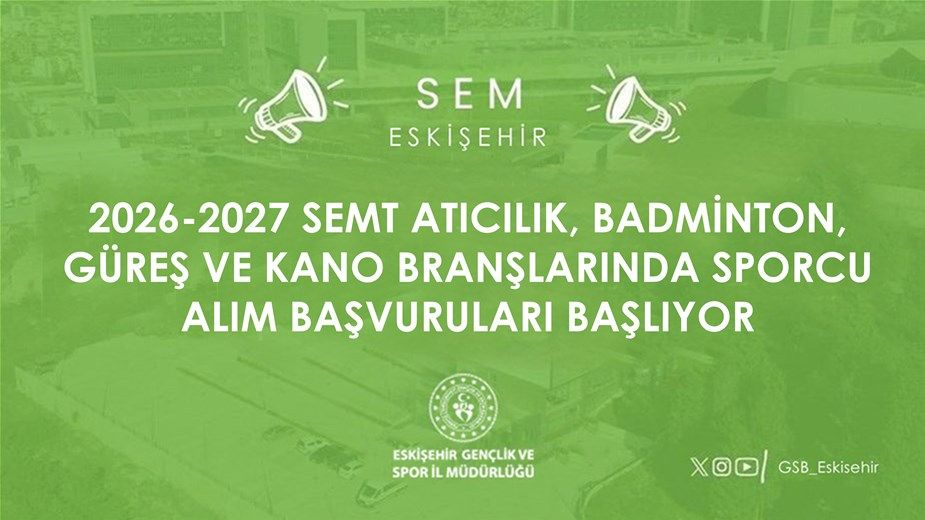
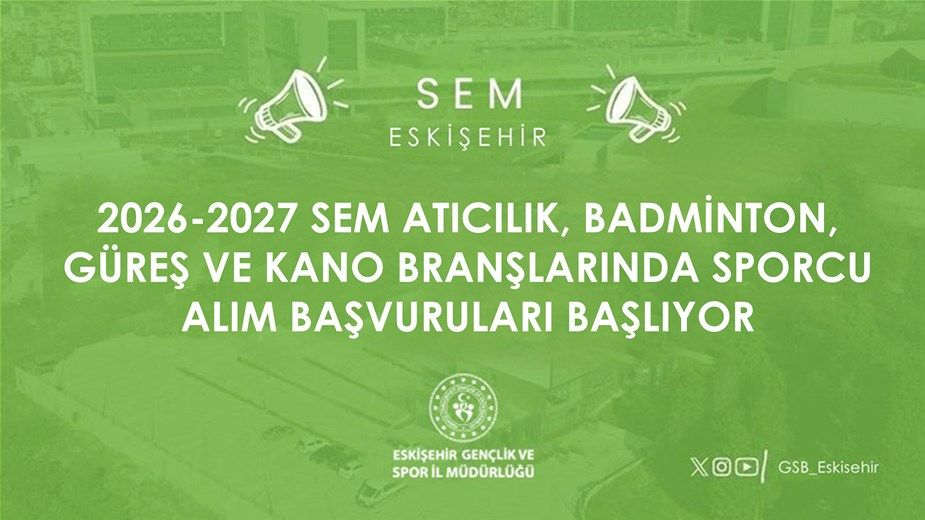
Haber turu (Pi masası)

Changed region(s): [[0.0908, 0.3692, 0.9384, 0.4615]]

diff --git a/SON_HABERLER.md b/SON_HABERLER.md
@@ -2,6 +2,70 @@
 
 Ajanın yazdığı son haberler (otomatik güncellenir).
 
+## Evlenecek Gençlere Kasımda 1,2 Milyar Liralık Destek: 11 Bin Çift Yararlandı
+
+**Türkiye · Türkiye** · 2026-11-21 13:09 UTC · Kaynak: [Aile ve Sosyal Hizmetler Bakanlığı](https://www.aile.gov.tr/haberler/aile-ve-genclik-fonu-kapsaminda-yeni-yuva-kuran-11-bin-224-genc-icin-kasim-ayinda-1-milyar-277-milyon-lira-odeme-yapildi/)
+
+![](data/images/7c625f4efbb33ff7.jpg)
+
+> Aile ve Sosyal Hizmetler Bakanlığı, Aile ve Gençlik Fonu kapsamında kasım ayında 11 bin 224 gence toplam 1 milyar 277 milyon lira faizsiz kredi ödendiğini bildirdi.
+
+Aile ve Sosyal Hizmetler Bakanı Mahinur Özdemir Göktaş, aile kurumunu desteklemek ve genç çiftlerin yuva kurma süreçlerini kolaylaştırmak amacıyla yürütülen Aile ve Gençlik Fonu ödemelerine ilişkin bilgi verdi. Göktaş, Türkiye genelinde 81 ili kapsayan uygulama doğrultusunda kasım ayında 11 bin 224 gence 1 milyar 277 milyon lira tutarında finansman aktarıldığını belirtti.
+
+Fondan yararlanma şartlarına değinen Bakan Göktaş, her iki eşin de 18-25 yaş aralığında yer alması durumunda 250 bin lira, 26-29 yaş grubunda bulunmaları halinde ise 200 bin liralık kredi verildiğini hatırlattı. Başvurusu kabul edilen çiftlere söz konusu desteğin 2 yıl geri ödemesiz ve 48 ay vadeli olarak sunulduğu, başvuru için aranan azami gelir sınırının da asgari ücretin 2,5 katına çıkarıldığı kaydedildi.
+
+Program kapsamında çocuk sahibi olan çiftlere hibe ve taksit erteleme imkânı tanındığını vurgulayan Göktaş, ilk bebekle birlikte 12 aylık taksitin hibe edilip borcun ertelendiğini, ikinci çocukta ise kalan tüm borcun silindiğini aktardı. Bugüne kadar fon aracılığıyla toplam 249 bin 686 gence 24 milyar 83 milyon liralık sıfır faizli kredi ulaştırıldığı bildirildi.
+
+---
+
+## Eskişehir Demirspor Son Dakikalarda Yıkıldı: Sahasında 1 Puana Razı Oldu
+
+**Spor · Merkez** · 2026-11-21 13:09 UTC · Kaynak: [Google Haberler - Eskişehir](https://www.abamedya.com/arit-kayadibi-eskisehir-deplasmanindan-puan-cikardi/66966/)
+
+> Profesyonelliğe Geçiş Ligi'nde mücadele eden Eskişehir Demirspor, sahasında ağırladığı Arıt Kayadibispor ile 1-1 berabere kaldı.
+
+Profesyonelliğe Geçiş Ligi'nin (PGL) 7. haftasında Eskişehir Demirspor, evinde Bartın temsilcisi Arıt Kayadibispor'u konuk etti. Çekişmeli geçen mücadele karşılıklı atılan gollerle 1-1'lik eşitlikle tamamlandı.
+
+Karşılaşmaya hızlı başlayan ev sahibi Eskişehir Demirspor, 23. dakikada Miren Örenç'in kaydettiği golle 1-0 öne geçti. İlk yarıda üstünlüğünü koruyan Eskişehir ekibi, soyunma odasına önde girdi.
+
+Mücadelenin ikinci yarısında konuk ekip beraberlik için yüklenirken, maçın son anlarında tansiyon yükseldi. Eskişehir Demirspor'da 86. dakikada Özkan Can ikinci sarı kartın ardından kırmızı kart görerek takımını 10 kişi bıraktı. Pozisyonun ardından kazanılan penaltıyı Arıt Kayadibispor adına Yusuf Oyit gole çevirdi ve skora denge geldi.
+
+Kalan dakikalarda başka gol olmayınca taraflar sahadan birer puanla ayrıldı.
+
+---
+
+## Cumhurbaşkanı Erdoğan Yeni Adalet Sarayını Açtı: 1,8 Milyon Kişiye Hizmet Verecek
+
+**Siyaset · Türkiye** · 2026-11-21 13:09 UTC · Kaynak: [İletişim Başkanlığı](https://www.iletisim.gov.tr/turkce/haberler/detay/cumhurbaskani-erdogan-gaziosmanpasa-adalet-sarayi-acilis-toreninde-konustu)
+
+![](data/images/229593dffb8a6cf0.jpg)
+
+> Cumhurbaşkanı Recep Tayyip Erdoğan, Gaziosmanpaşa Adalet Sarayı'nın resmî açılış töreninde konuşarak 29 katlı yeni binanın 4 ilçeye hizmet sunacağını belirtti.
+
+Cumhurbaşkanı Recep Tayyip Erdoğan, Eyüpsultan sınırları içinde inşa edilen Gaziosmanpaşa Adalet Sarayı'nın resmî açılış töreninde açıklamalarda bulundu. Daha önce üç ayrı binada faaliyet gösteren birimlerin tek çatı altında toplandığını aktaran Erdoğan, modern altyapıyla adalet hizmetlerinin daha hızlı ve etkin yürütülmesinin amaçlandığını söyledi.
+
+Yeni adliye kompleksinin yaklaşık 90 bin metrekare kapalı alana sahip olduğunu ve 29 kattan oluştuğunu bildiren Cumhurbaşkanı Erdoğan, binada 160 savcı odası, 136 hâkim odası, 14 ağır ceza mahkemesi başkanı odası ile 113 duruşma salonu ve 360 kişilik iki büyük duruşma salonunun bulunduğunu kaydetti. Tesiste ayrıca 317 araçlık otopark ve çeşitli sosyal donatı alanları yer alıyor.
+
+İleri teknoloji bilişim altyapısıyla donatılan adalet sarayının Gaziosmanpaşa, Sultangazi, Eyüpsultan ve Arnavutköy ilçelerindeki 1 milyon 791 bin kişiyi kapsayan yargı çevresine hitap edeceğini belirten Erdoğan, adil ve etkili işleyen bir yargı sisteminin toplumsal barışın temeli olduğunu vurguladı.
+
+---
+
+## Biket İlhan Sinemaseverlerle Buluştu: 'Geçmişi Bilmezsek Geleceği Anlayamayız'
+
+**Kültür-Sanat · Tepebaşı** · 2026-11-21 13:09 UTC · Kaynak: [Anadolu Üniversitesi](https://anahaber.anadolu.edu.tr/tr/haber-detay/bqcwziy4ogid42hsrh896is3)
+
+![](data/images/eaf859f4d6072c4e.jpg)
+
+> 23. Eskişehir Uluslararası Film Festivali kapsamında gösterilen "Tatlı Maya" filminin ardından yönetmen Biket İlhan ve oyuncular izleyicilerle söyleşide bir araya geldi.
+
+23. Eskişehir Uluslararası Film Festivali kapsamında, yönetmenliğini Biket İlhan’ın üstlendiği "Tatlı Maya" filminin özel gösterimi gerçekleştirildi. Sinema Anadolu’da yapılan gösterimin ardından usta yönetmen Biket İlhan ile oyuncular Erdem Ergüney ve Fatih Serdar Yılmaz, izleyicilerle bir araya gelerek yapımın perde arkasını anlattı. Moderatörlüğünü Anadolu Üniversitesi İletişim Bilimleri Fakültesi Öğretim Üyesi Prof. Dr. Nesrin Aysun Akıncı’nın üstlendiği söyleşide; kadın sorunları, ataerkil düzen, göç ve yabancılık temaları masaya yatırıldı.
+
+Filmlerinde yakın geçmişe ve tarihi olaylara ağırlık verdiğini dile getiren yönetmen Biket İlhan, geçmişi bilmeden geleceğin doğru değerlendirilemeyeceğini vurguladı. Eserlerinde genç kuşağın ve günümüz toplumunun yakın tarihe dikkatini çekmeyi amaçladığını belirten İlhan, toplumsal hafızayı diri tutan hikâyelere odaklanmayı sürdürdüğünü ifade etti.
+
+Projeye dahil olma sürecini aktaran oyuncu Erdem Ergüney, senaryodaki güçlü kadın dayanışmasının kendisini çok etkilediğini ve kısıtlanmış hayatlar karşısında insanların sarılmayı unuttuğu gerçeğinin filmde başarıyla işlendiğini belirtti. Oyuncu Fatih Serdar Yılmaz ise tiyatro sahnesi ile kamera önü oyunculuğunun tamamen farklı iki disiplin olduğunu vurgulayarak filmdeki deneyimlerini paylaştı. Etkinlik, izleyicilerin sorularının yanıtlanmasıyla tamamlandı.
+
+---
+
 ## Usta Sanatçı Gülen Karaman Eskişehir'de Gençlerle Buluştu: 'Umutsuzluğa Kapılmayın'
 
 **Kültür-Sanat · Tepebaşı** · 2026-11-21 11:09 UTC · Kaynak: [Anadolu Üniversitesi](https://anahaber.anadolu.edu.tr/tr/haber-detay/axji4d50tw6imia9xiv3s1rj)
@@ -399,69 +463,5 @@ Dosyadaki siyasi yasak talebine de değinen Yalaz, bir yılın üzerinde hapis c
 Eskişehir'de çeşitli programlara katılmak üzere kente gelen Jandarma Genel Komutan Yardımcısı Korgeneral Murat Bulut, Valilik makamında ağırlandı.
 
 Ziyarette Korgeneral Bulut'a, Eskişehir İl Jandarma Komutanı Albay Veysel Ergün de eşlik etti. Vali Dr. Erdinç Yılmaz, kabulde duyduğu memnuniyeti dile getirerek nazik ziyaretleri dolayısıyla Korgeneral Bulut'a teşekkür etti.
-
----
-
-## İklim Adası'na Ekolojik Kreş Geliyor: 'Şikâyet Değil Çözüm Merciiyiz'
-
-**Belediye · Merkez** · 2026-11-20 15:09 UTC · Kaynak: [Eskişehir Büyükşehir Belediyesi](https://www.eskisehir.bel.tr/icerik-detay.php?icerik_id=13580&cat_icerik=1&menu_id=24)
-
-![](data/images/41d64195526324fe.jpg)
-
-> Eskişehir Büyükşehir Belediye Başkanı Ayşe Ünlüce, kent konseyleri ve sivil toplum temsilcileriyle İklim Adası’nda bir araya gelerek merkezin yanına ekolojik kreş inşa edildiğini açıkladı.
-
-Eskişehir Büyükşehir Belediye Başkanı Ayşe Ünlüce; kent konseyleri, çalışma grupları, mahalle muhtarları ve sivil toplum kuruluşlarının temsilcileriyle İklim Adası - İyi Yaşam İçin Ortak Üretim ve İnovasyon Merkezi'nde buluştu. Toplantıya Eskişehir Kent Konseyi Başkanı İnci Ülüğ, Odunpazarı Kent Konseyi Başkanı İsmail Kumru ve Tepebaşı Kent Konseyi Başkanı Hatice Canan Adlım da katıldı.
-
-Porsuk Çayı üzerinde yer alan eski Ada Kafe ve Ada Restoran binasının dönüştürülmesiyle kente kazandırılan merkezin misyonuna değinen Başkan Ünlüce, iklim değişikliğiyle mücadelenin küçük yaşlarda başlaması gerektiğine işaret etti. Bu kapsamda merkezin hemen bitişiğinde ekolojik kreş yapımına başlandığını duyuran Ünlüce, tesis tamamlandığında çocuklara çevre ve doğa bilinci aşılayacak eğitimler verileceğini söyledi.
-
-İklim Adası'nın uzmanlığı olan ya da bu alanda öğrenmek isteyen herkese açık olduğunu vurgulayan Başkan Ünlüce, "Göreve geldiğimden beri söylediğim bir şey var: Biz şikâyet değil, çözüm merciiyiz. Artık şikâyet etmek yerine çözümü hep birlikte burada arayalım istiyoruz" dedi. Buluşma, katılımcıların yerel iklim eylemlerine ilişkin önerilerini paylaşmasının ardından tamamlandı.
-
----
-
-## Başkan Ataç Beyaz Önlüğü Giydi: 85 Bin Çocuğa Ulaşan Merkezde Minikleri Muayene Etti
-
-**Sağlık · Tepebaşı** · 2026-11-20 15:09 UTC · Kaynak: [Tepebaşı Belediyesi](https://www.tepebasi.bel.tr/Haber/Detay/baskanatacbeyazonlugunugiydi)
-
-![](data/images/26eb1305ad65efb2.jpg)
-
-> Tepebaşı Belediye Başkanı Dt. Ahmet Ataç, Ağız ve Diş Sağlığı Haftası kapsamında Tepebaşı Çocuk Ağız ve Diş Sağlığı Polikliniği'ni ziyaret ederek çocukların diş kontrollerini yaptı.
-
-Mesleği diş hekimliği olan Tepebaşı Belediye Başkanı Dt. Ahmet Ataç, 20-27 Kasım Ağız ve Diş Sağlığı Haftası ile 22 Kasım Diş Hekimleri Günü dolayısıyla Tepebaşı Çocuk Ağız ve Diş Sağlığı Polikliniği'ni ziyaret etti. Beyaz önlüğünü giyerek muayene koltuğunun başına geçen Ataç, minik hastaların diş kontrollerini gerçekleştirip doğru fırçalama yöntemleri hakkında tavsiyelerde bulundu.
-
-Poliklinikte bugüne kadar yaklaşık 85 bin çocuğa ücretsiz ağız ve diş sağlığı hizmeti sunulduğunu belirten Ataç, merkezin temel misyonunun koruyucu hekimlik olduğunu vurguladı. Vatandaşların ve okulların çocukları merkeze yönlendirebileceğini hatırlatan Ataç; poliklinikte ortodonti haricindeki tedavilerin uygulandığını, diş hekimi korkusu yaşayan miniklere psikolog desteği sağlandığını ve konuşma-dil terapisi hizmeti de verildiğini aktardı.
-
-Diş hekimliği eğitimi ve mesleki standartlar üzerine de değerlendirmelerde bulunan Ataç, 1999 yılında 24 olan fakülte sayısının bugün 100'e ulaştığına dikkat çekti. Kontrolsüz kontenjan artışının eğitim kalitesi ve mezunların istihdamı açısından riskler barındırdığını ifade eden Ataç, yeni fakültelerin akademik kadro ve fiziki imkânlar gözetilerek planlanması gerektiğini dile getirdi.
-
----
-
-## 23. Film Festivali'nde Kısa Film Rüzgârı: Yönetmenler Sinema Anadolu'da Buluştu
-
-**Kültür-Sanat · Tepebaşı** · 2026-11-20 15:09 UTC · Kaynak: [Anadolu Üniversitesi](https://anahaber.anadolu.edu.tr/tr/haber-detay/fb3vdyrp6akgfrcg3n7irdxc)
-
-![](data/images/c66b8d3765a2028d.jpg)
-
-> Eskişehir Uluslararası Film Festivali kapsamında düzenlenen Kısa Film Seçkisi etkinliğinde, genç yönetmenler yapımlarının perde arkasını sinemaseverlerle paylaştı.
-
-Anadolu Üniversitesinin ev sahipliğinde devam eden 23. Eskişehir Uluslararası Film Festivali (EFF), genç sinemacıların üretimlerini izleyiciyle buluşturdu. Sinema Anadolu'da gerçekleştirilen "Kısa Film Seçkisi-Söyleşi" programında, farklı temalara sahip yapımlar beyaz perdeye yansıtılırken gösterimlerin ardından film ekipleriyle kapsamlı bir söyleşi gerçekleştirildi.
-
-İletişim Bilimleri Fakültesi Dr. Öğr. Üyesi Nihan Öztürk'ün moderatörlüğünde düzenlenen oturumda, genç yönetmenler filmlerinin ortaya çıkış hikâyelerini aktardı. Sosyal medyadaki dezenformasyon ve linç kültürünü işleyen Egemen Özcan ile Beyşehir Gölü'ndeki balıkçıların yaşam mücadelesini ele alan Doğukan Melik Sevindik izleyicilerin sorularını yanıtladı. Bilim kurgu türündeki animasyonuyla Selin Toprak ve kuramsal deneyimini pratiğe aktaran Münir Alper Doğan da yapım süreçlerini anlattı.
-
-Etkinlikte ayrıca 6 bin liralık bütçeyle stüdyoda tamamladığı filmini aktaran Gökberk Kuyucu, insan duyularını konu edinen Sıla Buse Güler ve caz müziği üzerinden yaşam ritmini arayan Toprak Bektaş ile Mehmet Ali Genç, bağımsız sinema üretimine dair tecrübelerini katılımcılarla paylaştı.
-
----
-
-## Tepebaşı'na AB Destekli Rüzgâr Hibesi: Temiz Enerji Haritası Çıkarılacak
-
-**Belediye · Tepebaşı** · 2026-11-20 13:09 UTC · Kaynak: [Tepebaşı Belediyesi](https://www.tepebasi.bel.tr/Haber/Detay/tepebası’nınhibezincirineyenihalka)
-
-![](data/images/c055797138f04e95.jpg)
-
-> Tepebaşı Belediyesi, ilçenin rüzgâr enerjisi potansiyelini belirlemek için hazırladığı projeyle AB destekli TÜREB programından 15 bin avro hibe almaya hak kazandı.
-
-Tepebaşı Belediyesi, temiz enerji yatırımlarına yön vermek ve ilçenin rüzgâr enerjisi potansiyelini ortaya çıkarmak amacıyla hazırladığı projeyle yeni bir dış kaynak sağladı. Türkiye Rüzgâr Enerjisi Birliği (TÜREB) tarafından yürütülen ve Avrupa Birliği tarafından desteklenen hibe programı kapsamındaki sözleşme, Tepebaşı Belediye Başkan Yardımcısı Suat Yalnızoğlu tarafından Ankara'da imzalandı.
-
-Toplam 16 bin 800 avro bütçeli projeye 15 bin avro hibe desteği verilecek. Tepebaşı Belediyesi İklim Değişikliği ve Sıfır Atık Müdürlüğü koordinesinde 23 Kasım 2026'da başlayacak ve dokuz ay sürecek çalışma kapsamında, Coğrafi Bilgi Sistemleri desteğiyle rüzgâr verileri, arazi yapısı ve şebeke bağlantısı uygun olan en fazla üç alan belirlenerek incelenecek. Çalışmanın sonucunda belediyenin elektrik tüketimini rüzgârdan karşılamaya yönelik teknik ön değerlendirme raporu ve yol haritası hazırlanacak.
-
-Teknik incelemelerin yanı sıra belediye personeline ve öğrencilere yönelik eğitim atölyeleri de düzenlenecek. Ayrıca Vecihi Hürkuş Havacılık ve Teknoloji Parkı'nda enerji sektörü temsilcileri, sivil toplum kuruluşları ve kent sakinlerinin bir araya geleceği bir "Enerji Günü" organize edilerek elde edilen veriler kamuoyuyla paylaşılacak.
 
 ---
